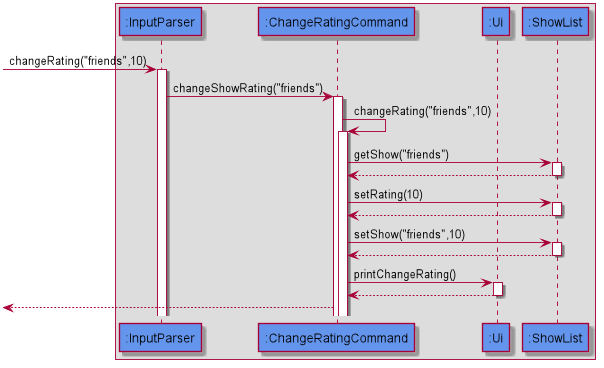
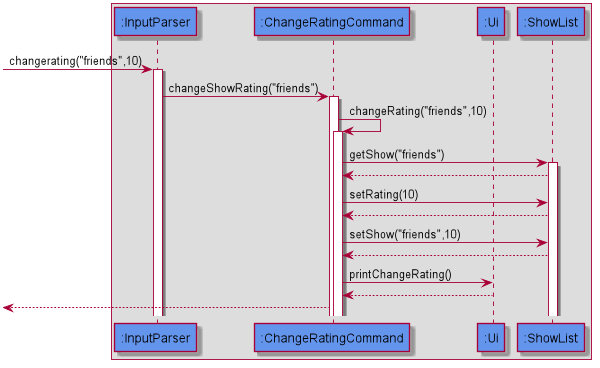
Add Diagrams for DeleteRatingCommand ,DeleteCommand and ChangeRatingCommand

diff --git a/docs/DeveloperGuide.md b/docs/DeveloperGuide.md
@@ -219,6 +219,10 @@ The `delete` command takes in 1 parameter, the show to be deleted. Following tha
 
 Given below is an example usage scenario and how the `DeleteCommand` Class behaves at each step.
 
+<img src = "images/DeleteCommand.png" width = "700">
+
+*Figure 1: Sequence Diagram for Delete Command*
+
 **Step 1**
 
 * The user types in `delete friends` , assuming that friends has been added by the user beforehand.
@@ -280,7 +284,7 @@ Given below is an example usage scenario and how the `ChangeRatingCommand` Class
 
 <img src = "images/ChangeRatingCommand.png" width = "700">
 
-*Figure 1: Sequence Diagram for Edit Command*
+*Figure 1: Sequence Diagram for ChangeRating Command*
 
 **Step 1**
 
@@ -319,11 +323,12 @@ The `deleterating` command deletes the rating of the desired show.
 The `deleterating` command takes in 1 parameter, the show which rating is to be deleted.Following that, the command 
 proceeds to delete the rating of the show that was inputted by the user.
 
-<<<<<<< HEAD
-Given below is an example usage scenario and how the DeleteCommand Class behaves at each step.
-=======
+
 Given below is an example usage scenario and how the `DeleteCommand` Class behaves at each step.
->>>>>>> 1659e4e7ad715166549f0ff6f5731cc78300cda4
+
+<img src = "images/DeleteRatingCommand.png" width = "700">
+
+*Figure 1: Sequence Diagram for DeleteRating Command*
 
 **Step 1**
 
@@ -341,11 +346,8 @@ The `deleteRating` method in `DeleteRatingCommand` class is called.
 
 **Step 3**
 
-<<<<<<< HEAD
-The deleteRating method starts with retrieving the show from the ShowList
-=======
+
 * The `deleteRating` method starts with retrieving the `Show` from the `ShowList`
->>>>>>> 1659e4e7ad715166549f0ff6f5731cc78300cda4
 
 **Step 4**
 
@@ -383,10 +385,9 @@ The review of the rating is added to the show.
 
 **Step 5**
 
-Reflect the changes back to the user. At the same time, changes are saved into the showList.txt file.
-=======
+
 * The changes are reflected back to the user. Concurrently, the changes will be saved to the showList.txt file.
->>>>>>> 1659e4e7ad715166549f0ff6f5731cc78300cda4
+
 
 ### ChangeReviewCommand
 
